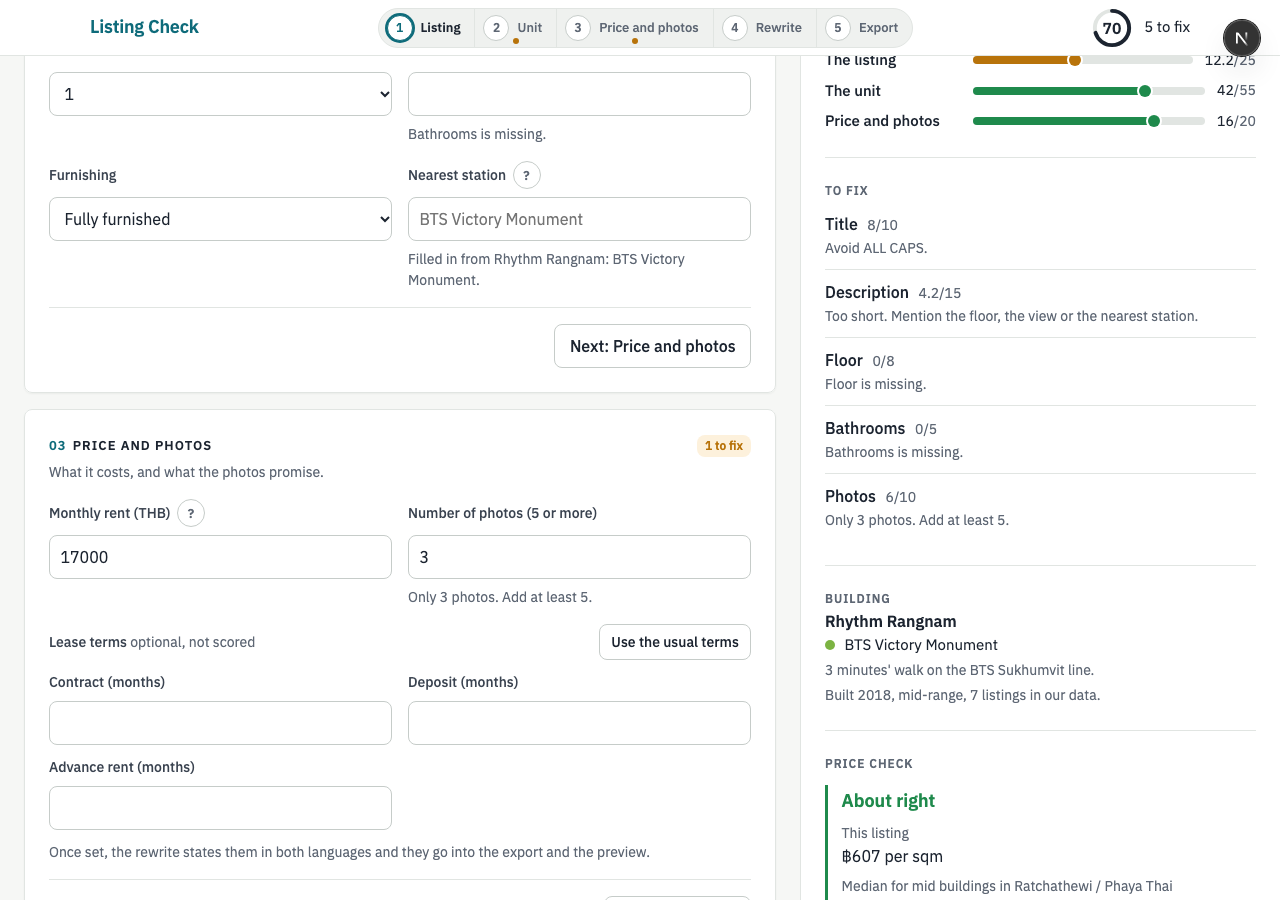
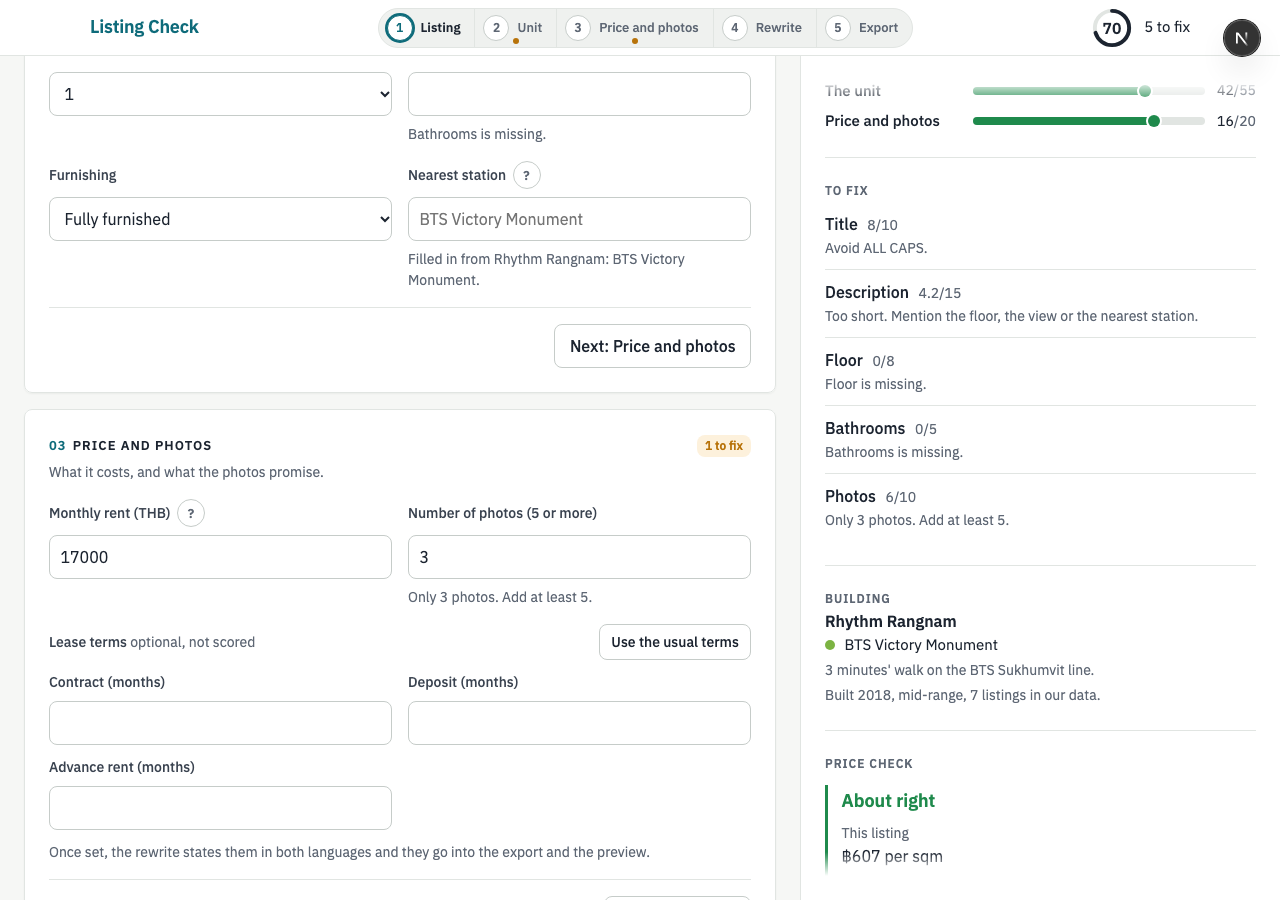
Paced pane: clip inside the padding with a soft fade at each end

Changed region(s): [[0.75, 0.0622, 0.9688, 0.1244], [0.6562, 0.9644, 0.9062, 0.9956], [0.6562, 0.0622, 0.7188, 0.1244]]

diff --git a/app/results.js b/app/results.js
@@ -22,7 +22,8 @@ export default function ResultsPanel({ result, problems, empty, gain, bench, dra
   const pane = useRef(null), inner = useRef(null);
   usePacedPane(pane, inner);
   return (
-    <aside className="results" id="results" ref={pane}>
+    <aside className="results" id="results">
+      <div className="results-clip" ref={pane}>
       <div className="results-inner" ref={inner}>
       <div className="results-card card">
         <section className="rs" aria-label="Score">
@@ -83,6 +84,7 @@ export default function ResultsPanel({ result, problems, empty, gain, bench, dra
         </div>
       )}
       </div>
+      </div>
     </aside>
   );
 }
@@ -96,8 +98,7 @@ function usePacedPane(pane, inner) {
     const mq = window.matchMedia("(min-width: 1000px)");
     let raf = 0;
     const metrics = () => {
-      const cs = getComputedStyle(pane.current);
-      const paneH = pane.current.clientHeight - parseFloat(cs.paddingTop) - parseFloat(cs.paddingBottom);
+      const paneH = pane.current.clientHeight;
       const overflow = Math.max(0, inner.current.scrollHeight - paneH);
       const range = Math.max(1, document.documentElement.scrollHeight - window.innerHeight);
       return { overflow, range };
@@ -120,7 +121,7 @@ function usePacedPane(pane, inner) {
       if (overflow) window.scrollBy({ top: (need * range) / overflow, behavior: "auto" });
     };
     const ro = new ResizeObserver(schedule);
-    ro.observe(inner.current); ro.observe(document.documentElement);
+    ro.observe(inner.current); ro.observe(pane.current); ro.observe(document.documentElement);
     window.addEventListener("scroll", schedule, { passive: true });
     window.addEventListener("resize", schedule);
     pane.current.addEventListener("focusin", onFocus);

diff --git a/app/globals.css b/app/globals.css
@@ -141,13 +141,15 @@ code { font-size: 0.9em; }
   /* the pane is pinned under the header; its content moves with the page at its own pace (see
      usePacedPane). overflow: clip, not hidden, so focus cannot scroll the pane itself. */
   .results {
-    position: sticky; top: 56px; height: calc(100vh - 56px); align-self: start; overflow: clip;
+    position: sticky; top: 56px; height: calc(100vh - 56px); align-self: start;
     background: var(--paper); border-left: 1px solid var(--rule); border-radius: 0; box-shadow: none; padding: 1.5rem;
   }
-  .results-inner { will-change: transform; }
+  /* the clip sits inside the padding, with a soft 24px fade at each end so the moving content never
+     butts against the header line or the bottom edge */
+  .results-clip { height: 100%; min-height: 0; overflow: clip; mask-image: linear-gradient(to bottom, transparent 0, #000 24px, #000 calc(100% - 24px), transparent 100%); -webkit-mask-image: linear-gradient(to bottom, transparent 0, #000 24px, #000 calc(100% - 24px), transparent 100%); }
+  .results-inner { will-change: transform; padding: 24px 0; }
   /* no box inside the pane: the sections sit directly on it. The pane has a fixed height, so its
      content must align to the start or the grid spreads the spare height across the sections. */
-  .results { display: grid; align-content: start; }
   .results .results-card { background: transparent; border: 0; box-shadow: none; padding: 0; align-content: start; }
   .results .bar-fill::after { box-shadow: 0 0 0 2px var(--paper); }
 }

diff --git a/BUILD_LOG.md b/BUILD_LOG.md
@@ -542,3 +542,5 @@ Matt asked whether the right pane should scroll with the rest. It should: pinned
 Matt's idea: the pane should scroll with the page but at its own speed, since it is shorter. Built as a scroll-driven offset (`usePacedPane` in `app/results.js`): the pane is pinned under the header with its overflow clipped, and on every scroll its content is translated by the page's scroll progress times the content's overflow. At the top of the page the content is at the top; at the bottom of the page the content's last button meets the pane's bottom edge; in between it is proportional. One scrollbar, nothing unreachable, no nested scrolling. Focus inside the pane scrolls the page by the amount that brings the element into view, so keyboard users reach the Preview button from the top of the page. Under 1000px the hook does nothing and the phone tabs are unchanged.
 
 Measured at 1280 and 1024: content top at the pane's top at scroll 0; at the page's end the last button's bottom edge equals the pane's inner bottom edge within a pixel; focusing the bottom button from the top brings it into the pane. The first version overshot the end by 24px, the pane's own padding, which the available height now subtracts. Mid-page at 1280: [pass12-paced-pane-mid.png](docs/screenshots/pass12-paced-pane-mid.png).
+
+**Follow-up, same day.** The moving content ran up under the header line, because the clip was the pane's own edge. A wrapper inside the padding now does the clipping, with a soft 24px fade at each end. Two things fought it: the wrapper's percentage height only held once its minimum height was zeroed, because as a grid item its automatic minimum was its content height and `overflow: clip` does not switch that off; and the pane's `display` is set by a base rule later in the stylesheet, so a desktop override by source order does nothing and was removed rather than left to mislead. Measured at 1280 and 1024: content starts 24px inside the clip at the top of the page and ends 24px inside it at the end, and focusing the bottom button from the top brings it into view.
